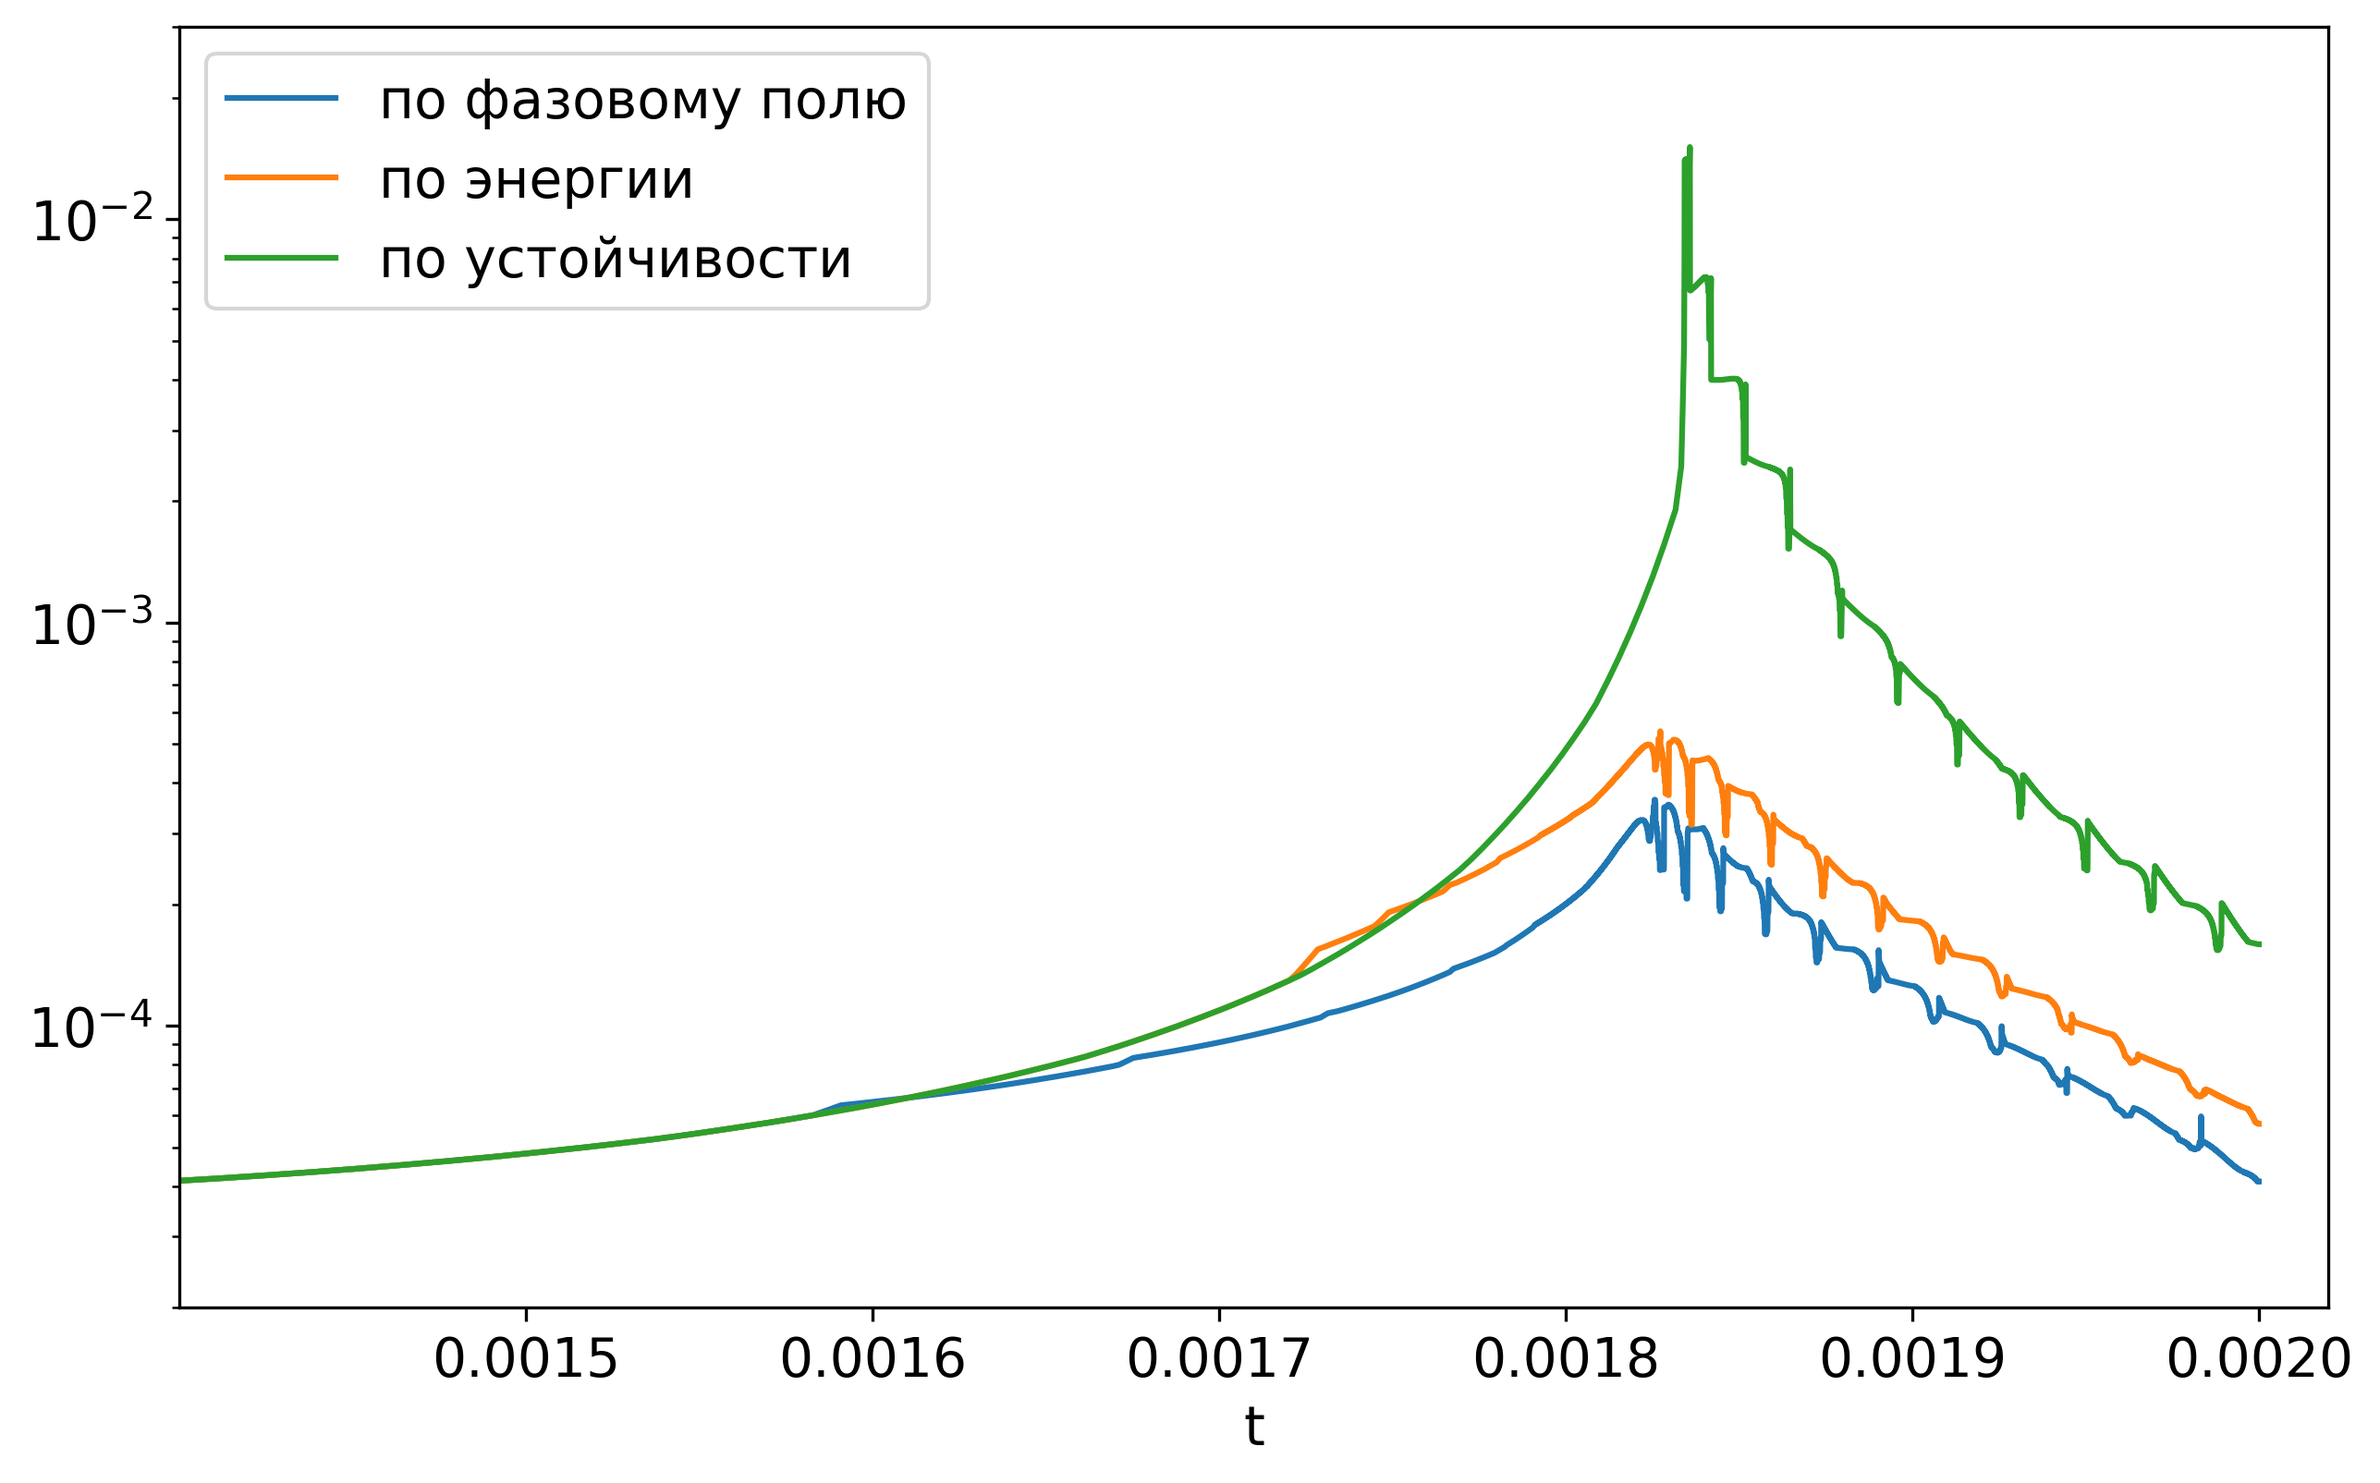
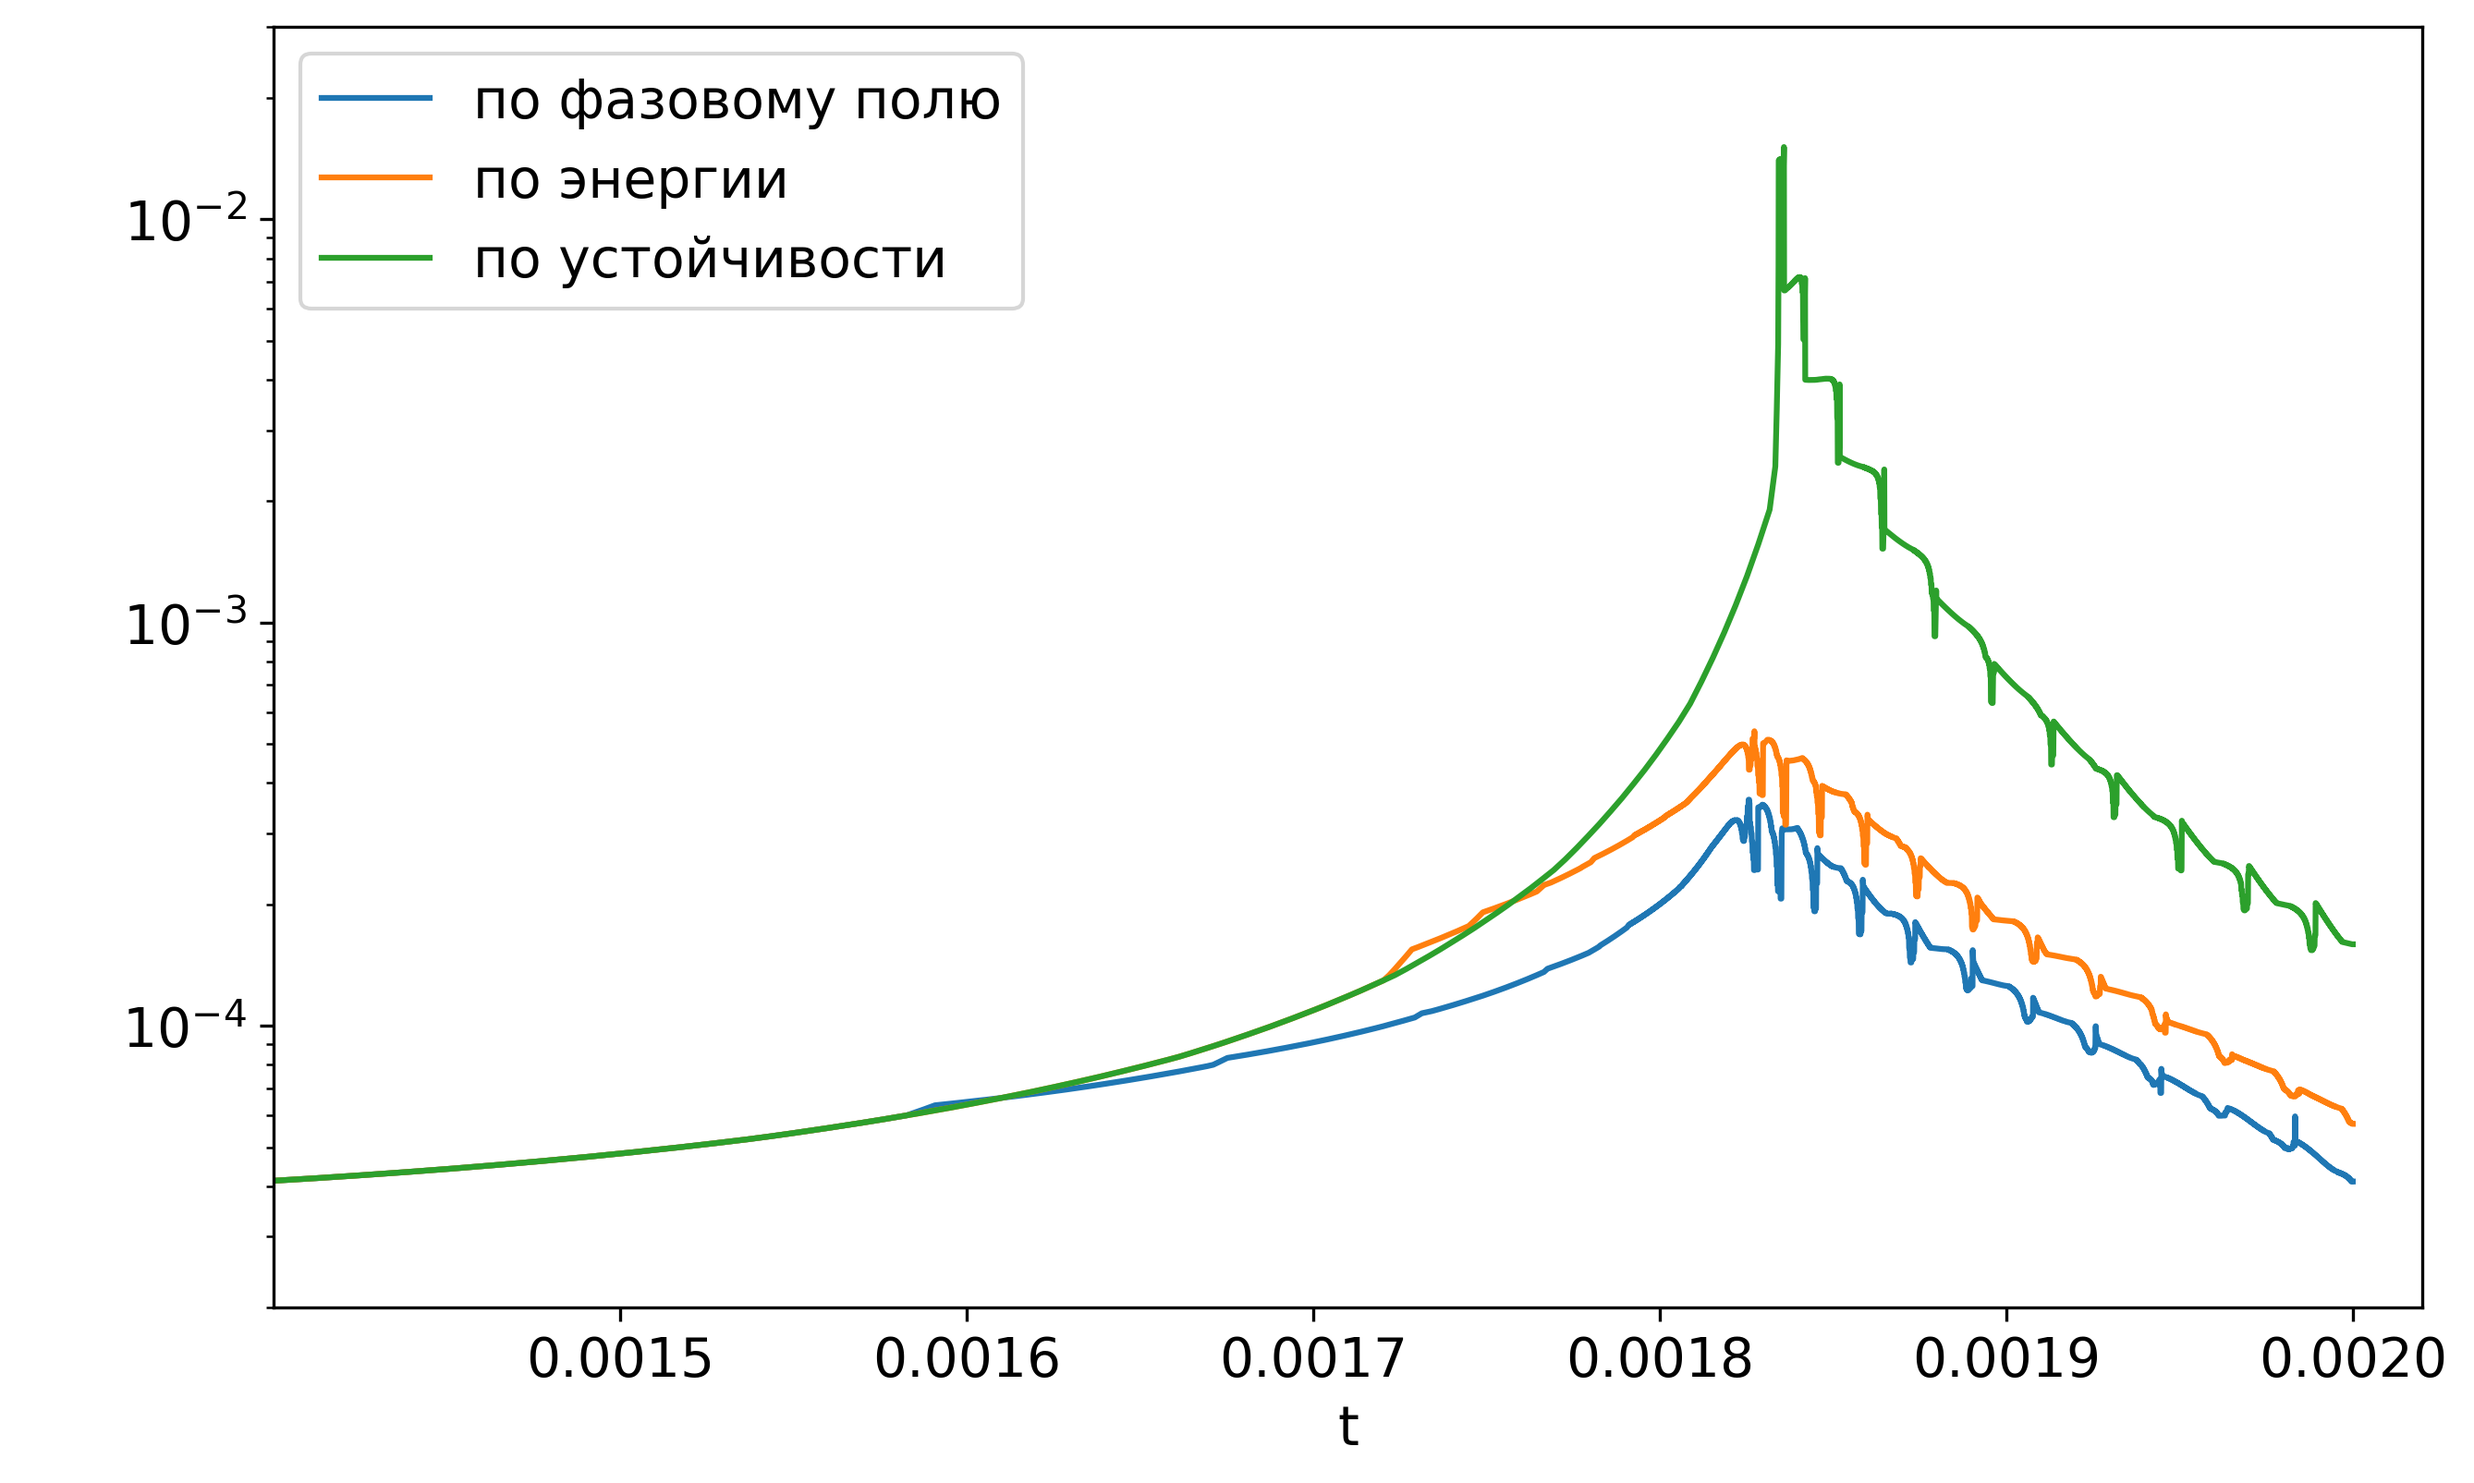
The results subsection developed

diff --git a/preprints/adaptation/sources/computational_experiment.tex b/preprints/adaptation/sources/computational_experiment.tex
@@ -89,20 +89,36 @@
 Провести сравнение решений по стандартной сеточной равномерной норме~$\enorm_{C, h}$ не удается. При введении адаптивного временного шага решение разностной задачи начинает <<отставать>> от исходного -- так проявляет себя ошибка аппроксимации по времени. Так как канал пробоя развивается стремительно, то даже небольшое <<отставание>> приводит к тому, что норма разности решений становится порядка $1$ и не несет значимой информации.
 
 Для сравнения решений будем использовать следующую величину:
-\[
-	\rho(\phi, \psi) = \max\limits_{k = 0}^n \min\limits_{s = 0}^n \| \phi^k - \psi^s \|_{C, x} = \max\limits_{k = 0}^n \min\limits_{s = 0}^n \max\limits_{j = 0}^M |\phi_j^k - \psi_j^s|.
-\]
+\begin{gather*}
+	\rho(\phi, \psi) = \max\limits_{k = 0}^n \rho(\phi, \psi; k), \\
+	\rho(\phi, \psi; k) = \min\limits_{s = 0}^n \| \phi^k - \psi^s \|_{C, x} = \min\limits_{s = 0}^n \max\limits_{j = 0}^M |\phi_j^k - \psi_j^s|.
+\end{gather*}
 Формула означает, что каждому моменту времени $t_{1, k}$ первого расчета сопоставляется момент времени $t_{2, s}$ второго расчета, в который сеточное решение $\psi_j^s$ наиболее близко к $\phi_j^k$ по пространственной равномерной норме.
 
 В описанном выше смысле <<отставание>> $\phi_j^k$ от $\psi_j^s$ есть
-\[
-	\zeta(\phi, \psi) = \max\limits_{k = 0}^n \left[ t_2 \left( \argmin\limits_{s = 0}^n \| \phi^k - \psi^s \|_{C, x} \right) - t_{1, k} \right].
-\]
+\begin{gather*}
+	\zeta(\phi, \psi) = \max\limits_{k = 0}^n \zeta(\phi, \psi; k), \\
+	\zeta(\phi, \psi; k) = t_2 \left( \argmin\limits_{s = 0}^n \| \phi^k - \psi^s \|_{C, x} \right) - t_{1, k}.
+\end{gather*}
 Относительным отставанием будем называть величину $\zeta(\phi, \psi) / T$, где $T$ -- длительность эксперимента.
 
-\absent{Нужно, видимо, что-то сказать про использованные оконные фильтры}
+На рис. \ref{fig:peak_error} и \ref{fig:peak_lag} показаны графики отклонения $\rho(\phi, \psi; k)$ и отстава\forcehyphenation ния $\rho(\phi, \psi; k)$ в зависимости от $t_k$ для расчетов с максимальным наблюдаемым ускорением для каждого из трех методов адаптации. Ускорением считается уменьшение числа временных итераций после введения адаптивного шага; $\phi$ обозначает расчет с адаптией, $\psi$ -- исходный, эталонный, расчет. При построении графика $\rho(\phi, \psi; k)$ был применен фильтр оконного минимума для избавления от сеточных артефактов, связанных, по-видимому, с используемым экономным сохранением результатов расчетов. Такой прием уместен, поскольку порядок ошибки решения куда более важен, чем ее точное значение.
 
-В табл. \ref{tab:results_max} перечислены результаты расчетов с максимальным наблюдаемым ускорением для каждого из методов адаптации. Ускорением считается уменьшение числа временных итераций после введения адаптивного шага. В качестве отклонения по $\phi$ рассматривается величина $\rho(\phi, \psi)$ для расчета $\phi$ с адаптивным шагом и эталонного расчета $\psi$; в качестве отставания -- $\zeta(\phi, \psi)$.
+\begin{figure}[!tp]
+	\centering
+	\includegraphics[width=\textwidth]{figures/adaptation_peak_error.png}
+	\vspace{-0.8cm}
+	\caption{Отклонение $\rho(\phi, \psi; k)$ решения с адаптацией от исходного решения}
+	\label{fig:peak_error}
+	\vspace{1cm}
+
+	\includegraphics[width=\textwidth]{figures/adaptation_peak_lag.png}
+	\vspace{-0.8cm}
+	\caption{Отставание $\zeta(\phi, \psi; k)$ решения с адаптацией от исходного решения}
+	\label{fig:peak_lag}
+\end{figure}
+
+В табл. \ref{tab:results_max} перечислены значения $\rho(\phi, \psi)$ и $\zeta(\phi, \psi)$ для указанных выше расчетов. При вычислении максимума в формуле отклонения использовались значения $\rho(\phi, \psi; k)$ с упомянутым оконным фильтром.
 
 В табл. \ref{tab:results_100} перечислены те же характеристики, но для расчетов с ускорением примерно в $100$ раз.
 
